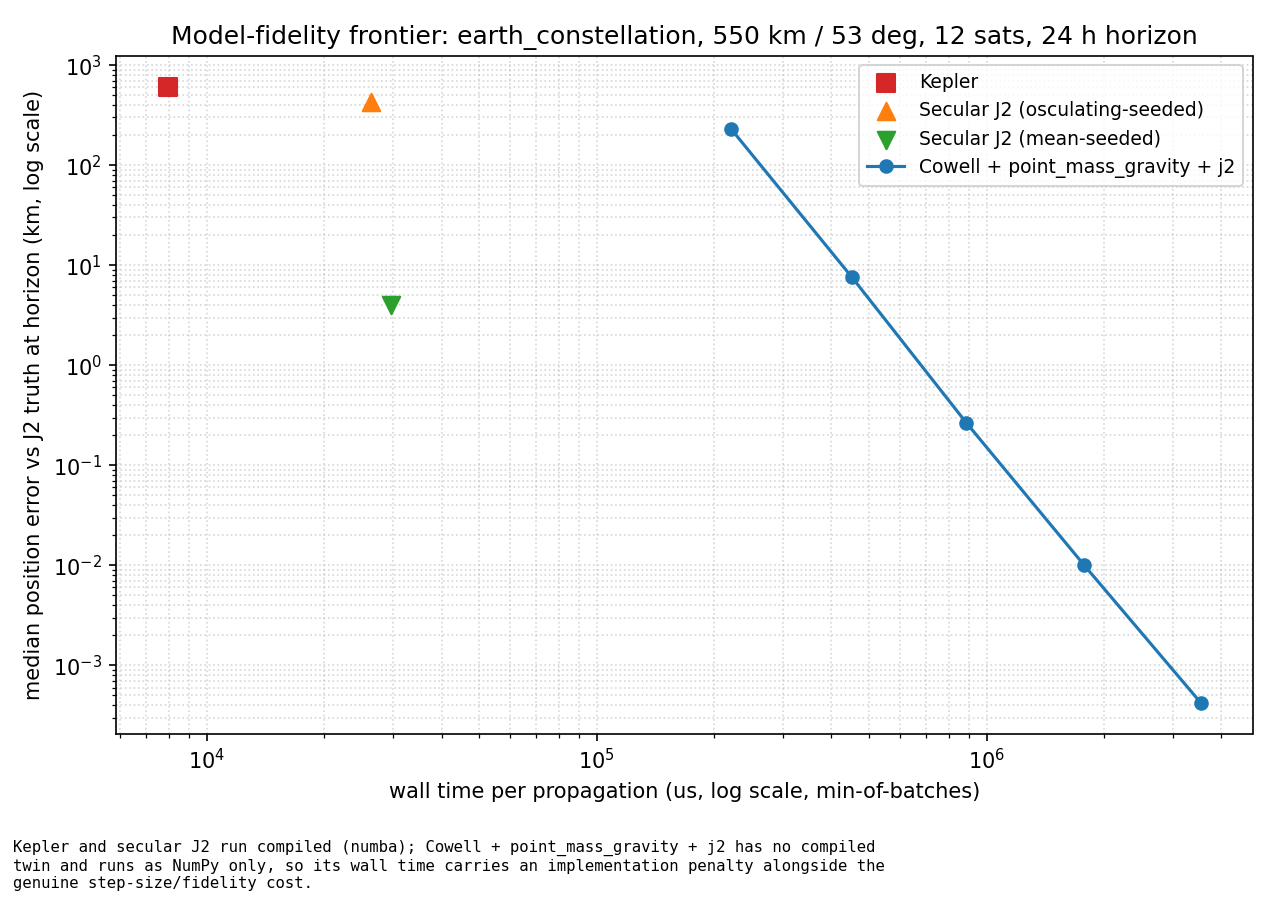
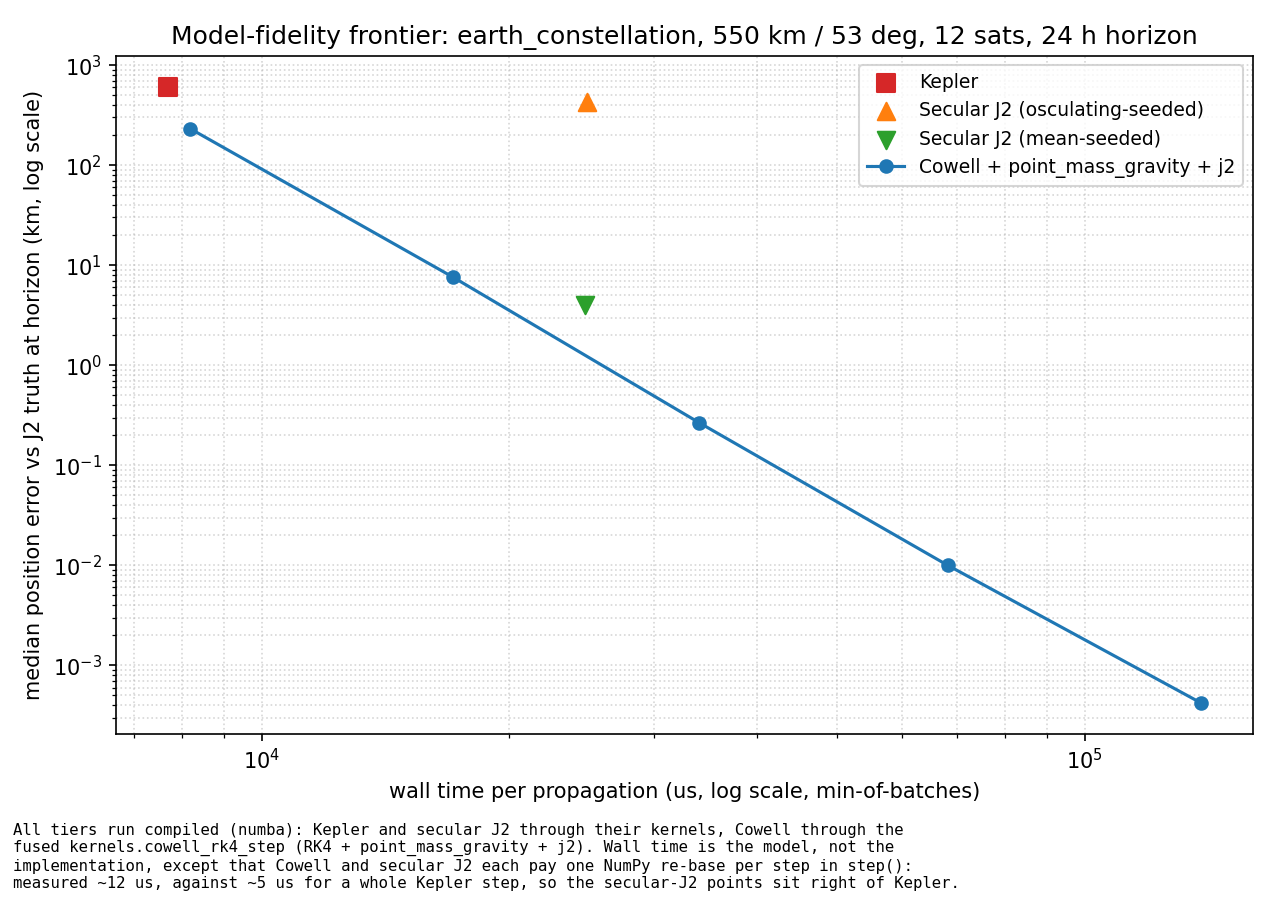
Compiled Cowell twin: frontier plot, README, CLAUDE.md and architecture notes
Regenerate docs/figures/frontier.png with every tier compiled. Errors are
unchanged; Cowell at 160 s now costs 1.1-1.3x Kepler. Measured per-step
cost is ~5 us for Kepler and ~16-18 us for both Cowell and secular J2, so
the remaining gap is the NumPy re-base in step(), recorded as the next
thing to fuse. frontier_plot.py prints a different caveat without numba.

diff --git a/benchmarks/frontier_plot.py b/benchmarks/frontier_plot.py
@@ -19,19 +19,25 @@ a full multi-plane constellation.
 - Kepler (`PropagatorType.KEPLERIAN`), compiled.
 - Secular J2, osculating-seeded (`PropagatorType.SECULAR_J2`, `mean_seed=False`), compiled.
 - Secular J2, mean-seeded (`mean_seed=True`), compiled.
-- Cowell + `point_mass_gravity` + `j2`, NumPy only (no compiled twin - see `CLAUDE.md`'s "Unwired
-  scaffolding" section), swept over several step sizes to trace a fidelity/cost curve.
+- Cowell + `point_mass_gravity` + `j2`, compiled through the fused twin `kernels.cowell_rk4_step`,
+  swept over several step sizes to trace a fidelity/cost curve.
 
 **Axes.** Error (log) against wall time (log), both from `sweep.SweepResult` - median position error
 over the 12 satellites, and minimum-of-batches wall time for the propagation alone (truth generation
 and `Simulation` construction excluded, per `sweep.run_sweep`).
 
-**The compiled-vs-NumPy caveat.** Kepler and secular-J2 run compiled (if numba is installed - both
-tiers fall back to interpreted Python otherwise, which `Simulation.use_compiled_kernel`'s docstring
-already flags as slower than the NumPy path it replaces). Cowell and its force models have no compiled
-twin at all. The Cowell curve's wall time therefore mixes a real modelling-cost difference (RK4 at a
-given step size against closed-form propagation) with an implementation penalty neither this plot nor
-`sweep.py` can separate - printed here, and repeated on the figure itself and in `README.md`.
+**The implementation caveat.** With numba installed every tier runs compiled: Kepler and secular J2
+through their kernels, Cowell through `kernels.cowell_rk4_step`, which fuses RK4 with exactly the
+`point_mass_gravity` + `j2` combination this script sweeps (any other model would fall back to the
+NumPy `RK4Integrator` path, and `Simulation._cowell_fused_ok` says which applied). Without numba,
+Kepler and secular J2 run as interpreted Python and Cowell as vectorised NumPy, so the horizontal axis
+then measures implementation as much as model - printed here, on the figure itself and in
+`README.md`. What remains is `step()`'s Python-level bookkeeping: the Cowell and secular-J2 tiers each
+pay one NumPy re-base per step (eight small fancy-indexed operations) that the Keplerian tier does not.
+Measured from the table this script prints: ~5 us per Kepler step against ~16-18 us per Cowell or
+secular-J2 step, whatever the Cowell step size, so the re-base is ~12 us and dominates both non-Kepler
+tiers. Fusing it into a kernel is the obvious next step; until then the secular-J2 tier sits to the
+right of Kepler for that reason alone, and Cowell at 160 s costs only ~1.2x Kepler.
 """
 from __future__ import annotations
 
@@ -70,11 +76,18 @@ COWELL_DTS_S = [160.0, 80.0, 40.0, 20.0, 10.0]
 TIMING_BATCHES = 3
 TIMING_WARMUP = 1
 
-CAVEAT = (
-    "Kepler and secular J2 run compiled (numba); Cowell + point_mass_gravity + j2 has no compiled\n"
-    "twin and runs as NumPy only, so its wall time carries an implementation penalty alongside the\n"
-    "genuine step-size/fidelity cost."
+CAVEAT_COMPILED = (
+    "All tiers run compiled (numba): Kepler and secular J2 through their kernels, Cowell through the\n"
+    "fused kernels.cowell_rk4_step (RK4 + point_mass_gravity + j2). Wall time is the model, not the\n"
+    "implementation, except that Cowell and secular J2 each pay one NumPy re-base per step in step():\n"
+    "measured ~12 us, against ~5 us for a whole Kepler step, so the secular-J2 points sit right of Kepler."
 )
+CAVEAT_INTERPRETED = (
+    "numba is NOT installed: Kepler and secular J2 ran as interpreted Python and Cowell as vectorised\n"
+    "NumPy, so wall time here measures implementation as much as model. Install [perf] for a fair\n"
+    "timing comparison."
+)
+CAVEAT = CAVEAT_COMPILED if NUMBA_AVAILABLE else CAVEAT_INTERPRETED
 
 
 def fresh_session() -> Session:

diff --git a/CLAUDE.md b/CLAUDE.md
@@ -80,7 +80,8 @@ Units throughout: **km, km/s, radians, seconds**, `mu` in km³/s².
 - **Call `resolve_force_models()` after any change to `force_model_mask` or `active_mask`.**
   `enable_force_model` does it for you. It also clears `accel_accum`: `compose_accelerations` only
   writes rows in the current dispatch set, so without that clear a disabled model's last acceleration
-  would persist in its body's row.
+  would persist in its body's row. It also rebuilds the Cowell dispatch plan (`_refresh_cowell_plan`),
+  which decides whether the fused compiled kernel applies; `set_propagator` rebuilds it too.
 - **A Cowell body integrates its state relative to its `parent_indices` parent, never its absolute
   global state.** `step()` saves that relative state and re-bases it onto the parent's *end-of-step*
   position after `calc_global()`. Integrating the absolute state with parent-relative forces silently
@@ -111,15 +112,15 @@ Units throughout: **km, km/s, radians, seconds**, `mu` in km³/s².
 | `utilities.Kepler` / `utilities.Barker` | Time ↔ mean anomaly for elliptic/hyperbolic and parabolic cases |
 | `simulator._topological_sort` | Vectorised BFS tier stratification — generic over any parent-index array |
 | `database.py` | Polymorphic ORM: `BaseBodyORM` / `CelestialBodyORM` / `VesselORM` / `VirtualBodyORM` plus `SystemORM`. `VesselORM` already carries `dry_mass`, `fuel_mass`, `drag_area` |
-| `kernels.py` | Compiled scalar kernels: `kepler_propagate`, `calc_global_states`, plus reusable `coe_to_rv_scalar` / `solve_kepler_scalar` / `advance_true_anomaly` |
+| `kernels.py` | Compiled scalar kernels: `kepler_propagate`, `secular_j2_propagate`, `cowell_rk4_step`, `calc_global_states`, plus reusable `coe_to_rv_scalar` / `solve_kepler_scalar` / `advance_true_anomaly` |
 | `scenarios.py` | `two_body`, `sun_earth_moon(moon_mu=…)`, `earth_constellation(n_sats=…)` — shared by tests and benchmarks. `moon_mu=0.0` gives a massless Moon with a genuinely accelerating parent. **Build scenarios from here, never inline in a test** |
 | `reference.py` | `reference_for(sim, times, oblateness={"Earth": (j2, r_eq)})` → DOP853 N-body truth trajectory, optionally with J2 on named bodies (reaction included, spin axis = frame +z). Independent of all engine code: oblateness is passed **explicitly**, never read from `force_model_params`, and the field is written from a different derivation than `geopotential.py`. Omitting it is bit-identical to the point-mass truth. **For frontier-plot truth pass `rtol=TRUTH_RTOL, atol=TRUTH_ATOL` (1e-13, 1e-12)**: the default `atol=1e-9` governs LEO velocity components and costs ~4x in truth error (3.5e-9 against 8.6e-10 km per orbit). `energy_drift` is mu-weighted, so it certifies nothing about massless satellites |
 | `benchmark.py` | `measure(fn)` → min-of-batches timing with noise ratio |
 | `forces.py` | Force-model composition. `ForceKernel` is the contract a force model implements — additive (`+=`, never `=`), stateless, allocation-free, called once per model per evaluation. `AccelerationProvider` is what an integrator consumes: `(t, state) -> (C,3)`, with `state` explicit so RK sub-stages never touch the arena. Read the module docstring before writing a force model |
 | `registry.py` | `@register_force_model(name, param_names=…, citation=…)` assigns the next uint64 mask bit. `get_force_model` / `all_force_models` / `mask_for`. Bits follow registration order within a process, so **sweep configs persist model names, never raw mask integers** |
-| `geopotential.py` | Force model `"j2"` (`J2_MODEL`): the J2 perturbation only, relative to each body's `parent_indices` parent — not the central `-mu r/r^3` term. Coefficients `(j2, r_eq)` live on the *perturbed* body's row. Earth values `EARTH_J2` and `EARTH_R_EQ` = 6378.137 km (equatorial) — do **not** pair J2 with `scenarios.EARTH_RADIUS` (6371 km, mean), which is 0.2% off. Assumes the parent's spin axis is the frame's +z. Registered on `import orbital_engine`. **Cannot detect a barycentre parent** (the kernel has no `is_system`) and returns a finite but meaningless value there; check with `barycentre_parented()` before enabling. No compiled twin yet |
-| `gravity.py` | Force model `"point_mass_gravity"`: the central term `-(mu_body + mu_parent) r / r^3` relative to `parent_indices`, the same summed mu the Keplerian path uses. Parent only, so a two-body term and **not** N-body or third-body. Registered on `import orbital_engine` |
-| `integrators.py` | `Integrator` protocol and `RK4Integrator(max_capacity)`: `step(provider, t, state, dt, indices, primaries)` advances `state[indices]` relative to `state[primaries]`, copying each stage's accelerations (the provider returns a shared buffer). Named stage buffers are allocated once in `__init__`, but fancy indexing still allocates temporaries every stage, so it is not allocation-free. The frozen-primary formulation is exact only for forces that depend on position relative to the parent, which covers every model registered today |
+| `geopotential.py` | Force model `"j2"` (`J2_MODEL`): the J2 perturbation only, relative to each body's `parent_indices` parent — not the central `-mu r/r^3` term. Coefficients `(j2, r_eq)` live on the *perturbed* body's row. Earth values `EARTH_J2` and `EARTH_R_EQ` = 6378.137 km (equatorial) — do **not** pair J2 with `scenarios.EARTH_RADIUS` (6371 km, mean), which is 0.2% off. Assumes the parent's spin axis is the frame's +z. Registered on `import orbital_engine`. **Cannot detect a barycentre parent** (the kernel has no `is_system`) and returns a finite but meaningless value there; check with `barycentre_parented()` before enabling. Compiled twin: fused into `kernels.cowell_rk4_step` with RK4 and `point_mass_gravity` |
+| `gravity.py` | Force model `"point_mass_gravity"`: the central term `-(mu_body + mu_parent) r / r^3` relative to `parent_indices`, the same summed mu the Keplerian path uses. Parent only, so a two-body term and **not** N-body or third-body. Registered on `import orbital_engine`. Name constant `POINT_MASS_MODEL`. Compiled twin: fused into `kernels.cowell_rk4_step` |
+| `integrators.py` | `Integrator` protocol and `RK4Integrator(max_capacity)`: `step(provider, t, state, dt, indices, primaries)` advances `state[indices]` relative to `state[primaries]`, copying each stage's accelerations (the provider returns a shared buffer). Named stage buffers are allocated once in `__init__`, but fancy indexing still allocates temporaries every stage, so it is not allocation-free. The frozen-primary formulation is exact only for forces that depend on position relative to the parent, which covers every model registered today. Compiled twin `kernels.cowell_rk4_step`, fused with `point_mass_gravity` and `j2`; `step()` uses it when `use_compiled_kernel` is set **and** `Simulation._cowell_fused_ok` (rebuilt by `_refresh_cowell_plan`: every Cowell body's mask is a subset of those two models and no Cowell body parents another), otherwise this NumPy path runs |
 | `propagators.py` | `SecularJ2Propagator` (`PropagatorType.SECULAR_J2`): analytic Keplerian propagation plus first-order secular drift of RAAN, argument of periapsis and mean anomaly under J2 — Vallado 4e Eq. 9-41 is the likely reference, **unverified against the text**. `p`, `e`, `i` held constant, matching the theory; `secular_j2_rates(...)` derives the three rates once, cached rather than recomputed per step. Compiled twin `kernels.secular_j2_propagate`. Configured only through `Simulation.set_propagator(bodies, PropagatorType.SECULAR_J2, j2=..., r_eq=...)` — coefficients are mandatory, unlike `enable_force_model("j2", ...)`'s silent-no-op convention. Optional `mean_seed=True` (default `False`, bit-identical to the prior behaviour) replaces the seeded `p` with a first-order mean value via `propagators.mean_seeded_p` — Kozai 1959 / Brouwer 1959, **unverified against the text**; corrects only `p`, never `e` or `i`. See `docs/architecture.md`'s Cowell section for the shared restriction reasoning and its own section for what this propagator adds |
 | `Simulation` model API | `enable_force_model(name, bodies, **coefficients)` and `set_propagator(bodies, PropagatorType.COWELL \| PropagatorType.SECULAR_J2, **coefficients)` are the sweep-configuration surface; `resolve_force_models()`; `accelerations(t, state=None)`. `set_propagator` raises `ValueError` for Cowell on heads, barycentres, kinematic roots, inactive slots and **any body with `mu != 0`**, since a Cowell body bypasses the barycentric accumulation that carries its mass into the reflex kick; `SECULAR_J2` carries the same restrictions plus a non-barycentre Keplerian parent, `0 <= e < 1`, and mandatory `j2`/`r_eq` coefficients |
 
@@ -161,9 +162,14 @@ Both halves of `registry.py` are now wired. `step()` dispatches Cowell bodies th
 `COWELL` and `SECULAR_J2` drive dispatch; any other `PropagatorType` member is unimplemented. `BodyHandle`
 (`body.py`) is still never instantiated and `sim.bodies` is always empty.
 
-Cowell has no compiled twin, so it runs as NumPy only whatever `use_compiled_kernel` says. Nor do
-`point_mass_gravity` and `j2`. Until twins exist, a Keplerian-vs-Cowell timing comparison measures the
-implementation as well as the model.
+Cowell's compiled twin is **fused**: `kernels.cowell_rk4_step` hard-codes RK4 with `point_mass_gravity`
+and `j2` (per-body flags), because numba cannot dispatch over the Python kernel list
+`forces.compose_accelerations` walks. A Cowell body carrying any other model, or parented by another
+Cowell body, sends the whole Cowell set down the NumPy `RK4Integrator` path (`_cowell_fused_ok`). The
+composition layer itself, and every other force model, remain NumPy only; a new force model that
+wants to be timed fairly against the analytic tiers needs its term added to `kernels._cowell_accel`
+and the plan's accepted-bit set. `test_constant_accel` and `test_radial_bias` are deliberately not
+in that set.
 
 Two test-fixture kernels, `test_constant_accel` and `test_radial_bias`, are registered from
 `forces.py` itself, so they occupy two of the 64 mask bits and appear in `all_force_models()` for
@@ -193,6 +199,7 @@ Hot paths exist twice: a readable NumPy version and a compiled scalar version.
 |---|---|---|
 | Propagation | `propagators.KeplerianPropagator` | `kernels.kepler_propagate` |
 | Secular-J2 propagation | `propagators.SecularJ2Propagator` | `kernels.secular_j2_propagate` |
+| Cowell step (RK4 + `point_mass_gravity` + `j2`) | `integrators.RK4Integrator` over `forces.compose_accelerations` | `kernels.cowell_rk4_step` (fused; other masks fall back to the reference) |
 | Global states | `Simulation.calc_global` (else branch) | `kernels.calc_global_states` |
 
 `Simulation.use_compiled_kernel` selects between them; it defaults to `NUMBA_AVAILABLE`, because

diff --git a/docs/architecture.md b/docs/architecture.md
@@ -285,6 +285,27 @@ registered today, so this is a documented constraint on what CAN be added next, 
 Both restrictions above (mass and kinematic role) are also documented restrictions of *this* phase, not
 accidents.
 
+**The compiled twin is fused, not composed.** `kernels.cowell_rk4_step` is the second-implementation
+half of this propagator: one scalar loop per body doing all four RK4 stages with `point_mass_gravity`
+and `j2` inlined (`kernels._cowell_accel`, each term's arithmetic in the same order as its NumPy
+kernel), selected by `use_compiled_kernel` exactly like the Keplerian and secular twins. It cannot
+call `forces.compose_accelerations` - numba does not dispatch over a list of Python callables - so
+instead of a general compiled composition layer it hard-codes the one combination the fidelity sweep
+runs, with per-body flags so a mixed arena (some satellites with J2, some without) still qualifies.
+`Simulation._refresh_cowell_plan` decides at configuration time, from the mask alone, whether every
+Cowell body's models are a subset of those two and no Cowell body is parented by another Cowell body
+(the kernel reads a parent's row as fixed across the stages, where `RK4Integrator` would see its stage
+candidates); if not, the whole Cowell set runs the NumPy path. The plan is rebuilt by both
+`_refresh_active_indices` and `resolve_force_models`, so it tracks `set_propagator` and
+`enable_force_model` without a per-step reduction over the mask. Both paths write the parent-relative
+result into `_cowell_rel` - the kernel by subtracting the parent from the row it has just rounded onto
+the absolute grid, the same arithmetic `step()` applies to the NumPy result - and share one re-base;
+for a heliocentric Moon that rounding is an ulp of 1.5e8 km, 8e-14 of the lunar distance per step,
+close enough to the 1e-12 equivalence bound that returning the relative result directly would have
+been a mistake. `tests/validation/test_kernel_equivalence.py` holds the pair at 1e-12 relative on
+direct calls and through `step()` (measured 1e-14 after 50 steps; single steps bit-identical), with a
+negative control and a spy test that the plan really selects the kernel and really falls back.
+
 ---
 
 ## Secular-J2 propagation: the third tier, and why it is a propagator, not a force model
@@ -462,9 +483,10 @@ secular-J2 bodies the same way → advance `t` → optionally record.
 
 ## Deliberately not built
 
-- **Compiled twins for Cowell and the force models.** Per-body propagator selection now exists
-  (`set_propagator`), but `RK4Integrator`, `point_mass_gravity` and `j2` are NumPy only. The
-  compiled/reference switch still applies to the Keplerian path alone.
+- **A compiled force-composition layer.** Cowell's compiled twin is fused for `point_mass_gravity` +
+  `j2` only (see the Cowell section); `forces.compose_accelerations` and any other model stay NumPy,
+  and a Cowell body carrying one falls back to `RK4Integrator`. A general compiled dispatcher would
+  need force models to be registered as compiled callables, which no model yet asks for.
 - **Massive Cowell bodies, and N-body or third-body forces.** Rejected and unregistered respectively;
   see the Cowell section above for why each needs more than a new kernel.
 - **Slot compaction and handle indirection.** Dropped from phase 1 once measurement showed they

diff --git a/README.md b/README.md
@@ -96,13 +96,18 @@ What the figure shows, as median position error against truth after 24 hours:
   short-period oscillation an averaged theory cannot represent.
 - **Cowell + `point_mass_gravity` + `j2`: 231 km at a 160 s step down to 0.0004 km at 10 s.** Wall
   time rises 16× across that range, as fourth-order Runge-Kutta predicts: each halving of the step
-  doubles the cost and cuts the error about 16-fold.
+  doubles the cost and cuts the error about 16-fold. At 160 s it costs 1.1–1.3× the Kepler tier (three runs) and is
+  already 2.6× more accurate; at 80 s it costs less than either secular-J2 tier.
 
 Two caveats:
 
-- **Timings mix implementations.** Kepler and secular J2 run compiled (numba). Cowell and its force
-  models have no compiled twin yet and run as vectorised NumPy, so part of Cowell's horizontal
-  distance from the analytic tiers is implementation, not model.
+- **Every tier runs compiled, but not every tier pays the same bookkeeping.** Kepler and secular J2
+  run through their numba kernels; Cowell runs through `kernels.cowell_rk4_step`, a fused compiled
+  twin of RK4 + `point_mass_gravity` + `j2` held to the NumPy path at 1e-12 relative. What remains
+  is one NumPy re-base per step in `Simulation.step` that the Cowell and secular-J2 tiers pay and
+  the Kepler tier does not: about 12 µs, against about 5 µs for a whole Kepler step. That is why
+  the secular-J2 points sit to the right of Kepler despite doing no more arithmetic, and it is
+  the next thing to fuse.
 - **Single-satellite figures depend on starting phase.** Against the same truth, one secular-J2
   satellite's error after 10 orbits ranges from 0.2 km to 574 km depending on its initial argument of
   latitude (see `docs/architecture.md`). That is why the sweep reports statistics over all bodies.
